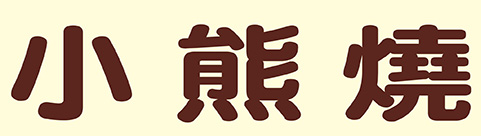
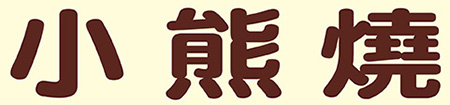
Update

diff --git a/index.html b/index.html
@@ -17,13 +17,30 @@ body {
 <body>
 <table width="500" border="0" align="center" cellpadding="0" cellspacing="0">
   <tr>
-    <td align="center" valign="top"><img src="images/open01.jpg" width="536" height="121" usemap="#Map2" border="0" /></td>
+    <td align="center" valign="top"><img src="images/open01.jpg" width="536" height="105" usemap="#Map2" border="0" /></td>
   </tr>
   <tr>
-    <td align="center" valign="top"><a href="home.html"><img src="images/open012.jpg" width="481" height="136" /></a></td>
+    <td align="center" valign="top"><a href="home.html"><img src="images/open012.jpg" width="450" height="105" /></a></td>
   </tr>
   <tr>
-    <td align="center" valign="top"><a href="home.html"><img src="images/open03.jpg" width="628" height="109" usemap="#Map" border="0" /></a></td>
+    <td align="center" valign="top"><a href="home.html"><img src="images/open03.jpg" width="550" height="62" usemap="#Map" border="0" /></a></td>
+  </tr>
+  <tr>
+    <td align="center" valign="top">&nbsp;</td>
+  </tr>
+  <tr>
+    <td align="center" valign="top"><table width="100%" border="0" cellspacing="0" cellpadding="0">
+      <tr>
+        <td width="19%">&nbsp;</td>
+        <td width="63%" align="center" valign="top"><p>小熊與樹*小熊燒，</p>
+          <p>源於王叔叔雞蛋糕是雞蛋糕類攤車加盟的創始者</p>
+          <p>擁有全國最多的加盟店數</p>
+          <p>利潤最好回本最快</p>
+          <p>況且還免加盟金免權利金也無抽成利潤獨享喔!</p>
+          <p>歡迎來到小熊燒的夢想園地!</p></td>
+        <td width="18%">&nbsp;</td>
+      </tr>
+    </table></td>
   </tr>
   <tr>
     <td align="left" valign="top"><img src="images/open031.jpg" width="1090" height="231" /></td>
@@ -34,7 +51,7 @@ body {
 </map>
 
 <map name="Map2" id="Map2">
-  <area shape="rect" coords="16,8,531,95" href="home.html" target="_blank" />
+  <area shape="rect" coords="13,5,533,106" href="home.html" target="_blank" />
 </map>
 </body>
 </html>
